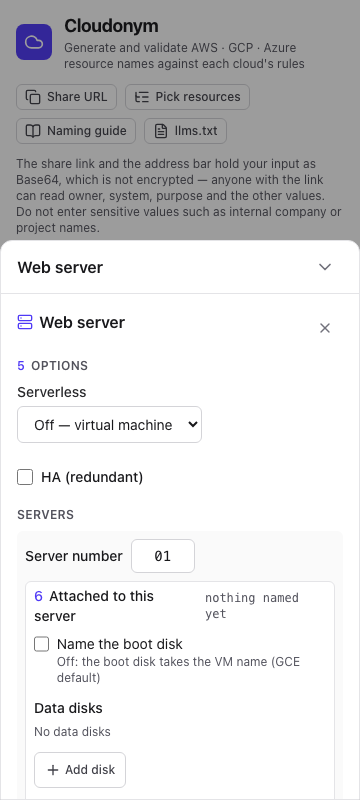
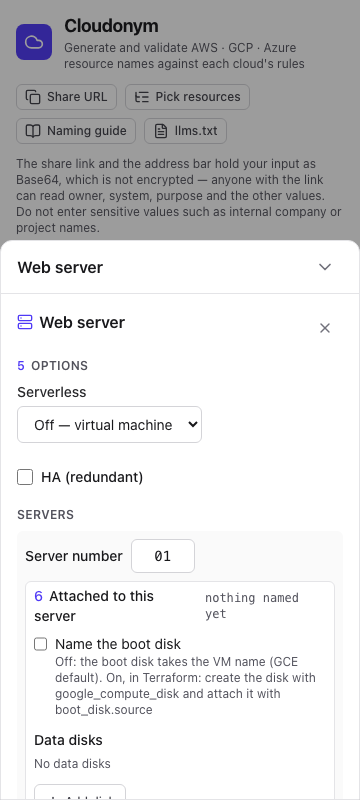
feat(wizard): note how to use boot disk names in the Terraform export
google_compute_instance cannot name its boot disk: the provider's
boot_disk.initialize_params block has no name field, and boot_disk.source
takes an existing disk such as one managed by google_compute_disk
(registry docs for google_compute_instance, checked against provider
8.6.0). A boot disk name from the wizard is only usable that way, and the
export did not say so.

- wizardTerraform and wizardTerraformByEnv add one comment line after the
  names map when it holds a valid boot disk name (attach boot), from the
  en.ts key terraform_boot_disk_note with the registry URL.
- The boot checkbox hint says the same in one sentence.

Screenshots 06 (wizard, desktop) and 08 (wizard, phone) are retaken: the
open server settings show the longer boot hint.

Claude-Session: https://claude.ai/code/session_014YZvVFBE4vdDVbQmXmRVVx

Changed region(s): [[0.0917, 0.7812, 0.8861, 1.0]]

diff --git a/src/components/wizardTerraform.ts b/src/components/wizardTerraform.ts
@@ -15,6 +15,10 @@ export function wizardLabels(sel: ProjectSelection, provider: Provider): Record<
   return out;
 }
 
+/** 맵에 든 부팅 디스크 이름(attach boot · valid)이 있는가 (D91) — google_compute_instance 의 boot_disk.initialize_params 에는 이름 칸이 없어
+ *  이 이름은 google_compute_disk 로 만들어 boot_disk.source 로 붙일 때만 쓰인다. 있으면 맵 뒤에 그 안내 주석 한 줄을 둔다 */
+const hasBootName = (items: ProjectResult['items']): boolean => items.some((i) => i.valid && i.attach === 'boot');
+
 /**
  * `<provider>_names = { "<key>" = "<name>" … }` + `<provider>_labels_by_namespace = { "<namespace>" = { … } … }`.
  * valid:false 항목(축소 실패 · 충돌 · 부모가 무효인 자식)은 맵 밖 `# INVALID: <provider>_names["<key>"] — 이유` 주석이다 — 무효한 이름을 값으로 내주지 않는다.
@@ -30,6 +34,7 @@ export function wizardTerraform(result: ProjectResult, labels: Readonly<Record<s
   for (const i of result.items) if (i.valid) lines.push(`    ${hclString(i.key)} = ${hclString(i.name)}`);
   lines.push('  }');
   for (const i of result.items) if (!i.valid) lines.push(`  # INVALID: ${p}_names[${hclString(i.key)}] — ${reasons(i.violations)}`);
+  if (hasBootName(result.items)) lines.push(`  # ${fillUi(catalog, 'terraform_boot_disk_note')}`);
 
   const spaces = Object.entries(labels);
   if (spaces.length > 0) {
@@ -69,6 +74,7 @@ export function wizardTerraformByEnv(
   for (const e of entries) {
     for (const i of e.result.items) if (!i.valid) lines.push(`  # INVALID: ${p}_names_by_env[${hclString(e.env)}][${hclString(i.key)}] — ${reasons(i.violations)}`);
   }
+  if (entries.some((e) => hasBootName(e.result.items))) lines.push(`  # ${fillUi(catalog, 'terraform_boot_disk_note')}`);
   if (entries.some((e) => Object.keys(e.labels).length > 0)) {
     lines.push(`  ${p}_labels_by_env = {`);
     for (const e of entries) {

diff --git a/src/components/wizardTerraform.test.ts b/src/components/wizardTerraform.test.ts
@@ -40,6 +40,20 @@ describe('wizardTerraform (D69)', () => {
     const close = h.indexOf('\n  }\n');
     expect(h.indexOf('# INVALID')).toBeGreaterThan(close);
   });
+  it('부팅 디스크 이름이 맵에 있으면 맵 뒤에 안내 주석 한 줄 · 없으면 없다 (D91)', () => {
+    const note = '  # Boot disk names (keys ending in /boot/-): create the disk with google_compute_disk and attach it with google_compute_instance boot_disk.source; boot_disk.initialize_params has no name field. https://registry.terraform.io/providers/hashicorp/google/latest/docs/resources/compute_instance\n';
+    expect(out.items.some((i) => i.valid && i.attach === 'boot')).toBe(true);
+    expect(hcl.split(note)).toHaveLength(2);
+    expect(hcl.indexOf(note)).toBeGreaterThan(hcl.indexOf('\n  }\n'));
+    const noBoot = { ...out, items: out.items.filter((i) => i.attach !== 'boot') };
+    expect(wizardTerraform(noBoot, {})).not.toContain('Boot disk names');
+    // 부모가 무효라 부팅 디스크 이름이 맵에 들지 않으면(# INVALID 만) 안내도 없다
+    const fail = generateProject(WIZARD_PARENT_FAIL, 'gcp');
+    expect(fail.items.some((i) => i.attach === 'boot' && !i.valid)).toBe(true);
+    expect(wizardTerraform(fail, {})).not.toContain('Boot disk names');
+    expect(wizardTerraformByEnv([{ env: 'prod', result: out, labels: {} }]).split(note)).toHaveLength(2);
+    expect(wizardTerraformByEnv([{ env: 'prod', result: noBoot, labels: {} }])).not.toContain('Boot disk names');
+  });
   it('라벨 위반이 있는 이름공간은 맵 밖 # INVALID', () => {
     const bad: LabelSet = { labels: { owner: 'x' }, violations: [{ code: 'label.too_long', field: 'owner', params: { actual: 65, max: 63 } }], transformed: [] };
     const h = wizardTerraform(out, { project: bad });

diff --git a/src/messages/en.ts b/src/messages/en.ts
@@ -374,6 +374,7 @@ export const en: Catalog = {
     provider_name_azure: 'Microsoft Azure',
     terraform_header_version: 'Generated by Cloudonym — engine {engine} · rules {rules}',
     terraform_header_pass: 'PASS means the naming checks of this rules revision passed; availability and uniqueness are not checked',
+    terraform_boot_disk_note: 'Boot disk names (keys ending in /boot/-): create the disk with google_compute_disk and attach it with google_compute_instance boot_disk.source; boot_disk.initialize_params has no name field. https://registry.terraform.io/providers/hashicorp/google/latest/docs/resources/compute_instance',
     copy_done: 'Copied',
     copy_unavailable: 'Clipboard is not available — open the page over HTTPS or select the value and copy it yourself',
     copy_failed: 'No permission to copy — select the value and copy it yourself',
@@ -455,7 +456,7 @@ export const en: Catalog = {
     wizard_seq_invalid: 'Use a number from 01 to 99',
     wizard_step_attached: 'Attached to this server',
     wizard_boot: 'Name the boot disk',
-    wizard_boot_hint: 'Off: the boot disk takes the VM name (GCE default)',
+    wizard_boot_hint: 'Off: the boot disk takes the VM name (GCE default). On, in Terraform: create the disk with google_compute_disk and attach it with boot_disk.source',
     wizard_data_disks: 'Data disks',
     wizard_add_disk: 'Add disk',
     wizard_remove_disk: 'Remove disk {seq}',

diff --git a/src/messages/catalog.ts b/src/messages/catalog.ts
@@ -73,7 +73,7 @@ export const UI_KEYS = [
   // ProviderSection
   'provider_name_aws', 'provider_name_gcp', 'provider_name_azure',
   // Terraform 내보내기 첫 줄 주석 (D26)
-  'terraform_header_version', 'terraform_header_pass',
+  'terraform_header_version', 'terraform_header_pass', 'terraform_boot_disk_note',
   // clipboard
   'copy_done', 'copy_unavailable', 'copy_failed',
   // 마법사 — 경로 nav · 일곱 단계 · 공용 추가 리소스 · 링크 복구 안내 (D67 · D68 · D84)
